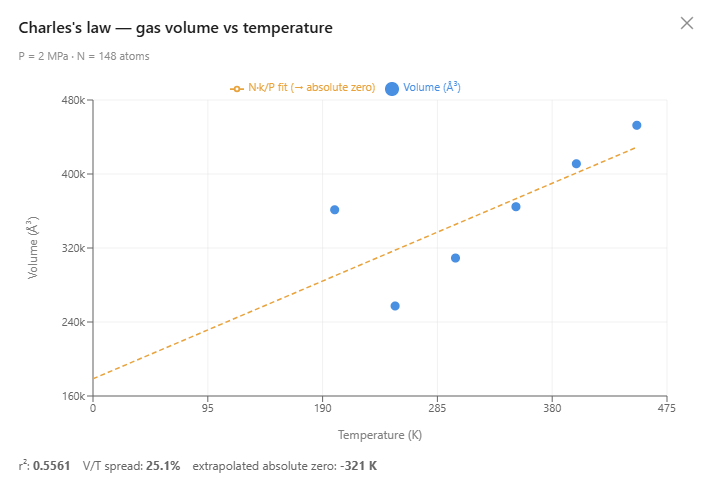
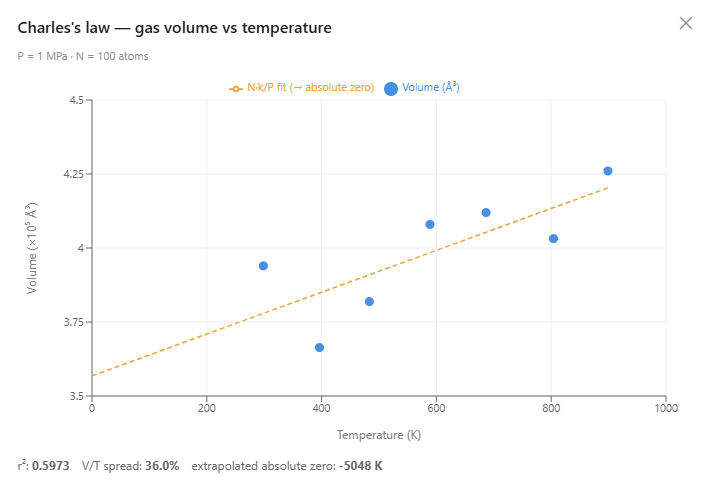
work

diff --git a/public/aims-gas-laws.html b/public/aims-gas-laws.html
@@ -51,13 +51,6 @@
         .v2-byline { font-size: 1.05rem; color: var(--text-muted); margin: 0 0 1.5rem; }
         .v2-byline a { color: var(--accent); }
         .v2-byline strong { color: var(--text); font-weight: 600; }
-        .v2-article-audio { display: flex; flex-direction: column; align-items: center; gap: 0.6rem; padding: 1.25rem; background: var(--surface-raised); border: 1px solid rgba(99, 102, 241, 0.18); border-radius: 0.75rem; margin: 0 0 2rem; }
-        .v2-article-audio-label { font-size: 0.85rem; font-weight: 600; text-transform: uppercase; letter-spacing: 0.1em; color: var(--accent); }
-        .v2-article-audio audio { width: min(100%, 420px); }
-        .v2-model-link { background: linear-gradient(135deg, rgba(99, 102, 241, 0.08), rgba(14, 165, 233, 0.06)); border: 1px solid rgba(99, 102, 241, 0.2); border-radius: 0.75rem; padding: 1rem 1.5rem; margin: 1rem 0 2rem; text-align: center; }
-        .v2-model-link a { display: inline-flex; align-items: center; gap: 0.5rem; font-family: var(--font-display); font-size: 1.05rem; font-weight: 600; color: var(--accent-dark); text-decoration: none; }
-        .v2-model-link a:hover { color: var(--accent); text-decoration: underline; }
-        .v2-model-link a::before { content: '\25B6'; font-size: 0.8rem; color: var(--accent); }
         .v2-screenshot-row { display: grid; grid-template-columns: 1fr 1fr; gap: 0.6rem; margin: 1rem 0 1.5rem; }
         .v2-screenshot-row img { width: 100%; height: auto; border-radius: 0.5rem; border: 1px solid rgba(15, 23, 42, 0.1); }
         .v2-prompts { background: linear-gradient(135deg, rgba(99, 102, 241, 0.07), rgba(14, 165, 233, 0.05)); border: 1px solid rgba(99, 102, 241, 0.2); border-radius: 0.75rem; padding: 1.35rem 1.6rem; margin: 1rem 0 2rem; }
@@ -81,7 +74,7 @@
                 <span class="v2-eyebrow">AIMS</span>
                 <h1>Discover the Gas Laws via AI-Assisted Simulations</h1>
                 <p class="v2-tagline">
-                    Boyle, Charles, Gay-Lussac, and Avogadro in one box of atoms, controlled by AI agents.
+                    Boyle, Charles, Gay-Lussac, and Avogadro in one box of molecules, controlled by AI agents.
                 </p>
             </div>
         </header>
@@ -96,32 +89,32 @@
                     exercise with a syringe and a hot-water bath. AIMS offers a different path: you <em>discover</em> these laws by talking to an
                     <a target="_blank" rel="noopener noreferrer" href="https://en.wikipedia.org/wiki/Intelligent_agent">AI agent</a> that builds and runs a real
                     <a target="_blank" rel="noopener noreferrer" href="https://en.wikipedia.org/wiki/Molecular_dynamics">molecular dynamics</a> simulation for you. You ask a question in plain English; the agent
-                    sizes a box of atoms, conducts the experiment, plots the measured data, and helps you make sense of it. Nothing about the laws is programmed in &mdash; they <em>emerge</em> from the motion and
-                    collisions of individual atoms. In the window below, a box of argon is capped by a movable piston. Press the play button and watch the atoms fly, collide with the walls, and hold the piston up
-                    against the load pressing down on it.</p>
+                    sizes a box of molecules, conducts the experiment, plots the measured data, and helps you make sense of it. Nothing about the laws is programmed in &mdash; they <em>emerge</em> from the motion and
+                    collisions of individual molecules. In the window below, a box of hydrogen molecules is capped by a movable piston. Press the play button and watch the molecules fly, collide with the walls, and hold
+                    the piston up against the load pressing down on it.</p>
 
                     <figure class="v2-embed">
-                        <iframe src="https://aims.intofuture.org/?viewonly=true&userid=HgVr8Ex4o9YsAjgku4RICvBldJK2&project=Gas%20Laws"
-                                id="aims-frame1" allowfullscreen="true" title="Gas Laws demo"></iframe>
+                        <iframe src="https://aims.intofuture.org/?viewonly=true&userid=HgVr8Ex4o9YsAjgku4RICvBldJK2&project=Gas%20Laws%20of%20Hydrogen%20Molecules"
+                                id="aims-frame1" allowfullscreen="true" title="Gas Laws of Hydrogen Molecules demo"></iframe>
                         <figcaption>
                             Live model &mdash; <a href="javascript:openFullscreen1();">view fullscreen</a>. Chrome or Edge recommended.
                         </figcaption>
                     </figure>
 
-                    <h2>A Piston Made of Molecular Collisions</h2>
+                    <h2>A Piston Driven by Molecular Collisions</h2>
 
                     <p>Every gas law is a statement about how three quantities &mdash; pressure, volume, and temperature &mdash; trade off for a fixed amount of gas. To study them we need a way to
                     <em>hold one quantity constant while varying another</em>. AIMS does this with a movable-piston
                     <a target="_blank" rel="noopener noreferrer" href="https://en.wikipedia.org/wiki/Barostat">barostat</a>: a weighted plate that seals the top of the container. A constant load pushes the plate
-                    down into the gas, while the gas atoms push it back up through countless tiny collisions. Where the two balance, the gas pressure equals the applied pressure &mdash; a real
+                    down into the gas, while the gas molecules push it back up through countless tiny collisions. Where the two balance, the gas pressure equals the applied pressure &mdash; a real
                     <a target="_blank" rel="noopener noreferrer" href="https://en.wikipedia.org/wiki/Isobaric_process">constant-pressure</a> ensemble, driven by
                     <a target="_blank" rel="noopener noreferrer" href="https://en.wikipedia.org/wiki/Kinetic_theory_of_gases">kinetic theory</a>, not by any hard-coded rule. A red arrow on the plate shows the
                     applied load and grows longer as the pressure is raised, so students can literally see "push harder" before the plate has finished responding.</p>
 
-                    <p>Because the pressure the gas exerts is computed from the momentum the atoms deliver to the walls, and the volume is read from the height at which the piston floats, the simulation gives
-                    students a microscopic picture of what pressure and volume actually <em>are</em>. A gas law that a textbook states in one line becomes something you can see happening, atom by atom. And you
-                    never have to configure any of this by hand: the AI agent knows how to size the container, place the gas, switch on the piston, set its load, and drive it &mdash; the whole apparatus is assembled
-                    from a sentence.</p>
+                    <p>Because the pressure the gas exerts is computed from the momentum the molecules deliver to the walls, and the volume is read from the height at which the piston floats, the simulation gives
+                    students a microscopic picture of what pressure and volume actually <em>are</em>. A gas law that a textbook states in one line becomes something you can see happening, molecule by molecule. And you
+                    never have to build any of this through menus and dials: you describe what you want in plain words, and the AI agent sizes the container, places the gas, switches on the piston, sets its load, and
+                    drives it &mdash; the whole apparatus is assembled from a sentence.</p>
 
                     <h2>Ask a Question, Run an Experiment</h2>
 
@@ -136,9 +129,9 @@
                         <p class="v2-prompts-group">Prepare the simulation</p>
                         <ol>
                             <li><span class="v2-prompts-step">Size the container</span> &mdash; <span class="v2-prompt">"Resize the simulation box to 80 &times; 80 &times; 120 &aring;ngstr&ouml;ms so the gas has room to expand and the piston can travel."</span></li>
-                            <li><span class="v2-prompts-step">Add the gas</span> &mdash; <span class="v2-prompt">"Add argon to the gallery, then scatter 50 argon atoms across the box."</span></li>
-                            <li><span class="v2-prompts-step">Set the conditions</span> &mdash; <span class="v2-prompt">"Hold the temperature at 300 K and use a 5 fs time step, since argon's interactions are weak."</span></li>
-                            <li><span class="v2-prompts-step">Switch on the piston</span> &mdash; <span class="v2-prompt">"Turn on the piston at 2 MPa with a light 40 amu plate so I can see it move."</span></li>
+                            <li><span class="v2-prompts-step">Add the gas</span> &mdash; <span class="v2-prompt">"Add hydrogen to the gallery, then scatter 50 hydrogen molecules across the box."</span></li>
+                            <li><span class="v2-prompts-step">Set the conditions</span> &mdash; <span class="v2-prompt">"Hold the temperature at 300 K and use a 1 fs time step, since the H&ndash;H bond vibrates quickly."</span></li>
+                            <li><span class="v2-prompts-step">Switch on the piston</span> &mdash; <span class="v2-prompt">"Turn on the piston at 2 MPa with a light 20 amu plate so I can see it move."</span></li>
                             <li><span class="v2-prompts-step">Run it</span> &mdash; <span class="v2-prompt">"Run the simulation for 500 femtoseconds so I can watch the gas hold the piston up, then stop."</span></li>
                         </ol>
 
@@ -164,41 +157,40 @@
                     ideal law, which is itself a teachable moment rather than an error.</p>
 
                     <p><b><a target="_blank" rel="noopener noreferrer" href="https://en.wikipedia.org/wiki/Charles%27s_law">Charles's law</a> (constant pressure).</b> With the piston holding the pressure fixed, the agent
-                    steps the temperature and measures the expanding volume. Volume rises in direct proportion to the absolute temperature, giving a straight line that, extended backward, crosses zero volume near
-                    &minus;273&nbsp;&deg;C &mdash; the simulation reproduces the classic extrapolation to
-                    <a target="_blank" rel="noopener noreferrer" href="https://en.wikipedia.org/wiki/Absolute_zero">absolute zero</a> directly from the measured data.</p>
+                    steps the temperature and measures the expanding volume. Volume rises in direct proportion to the absolute temperature, giving a straight line that, extended backward, heads toward zero volume near
+                    &minus;273&nbsp;&deg;C &mdash; the classic extrapolation toward
+                    <a target="_blank" rel="noopener noreferrer" href="https://en.wikipedia.org/wiki/Absolute_zero">absolute zero</a>, here traced out directly from the measured data.</p>
 
                     <p><b><a target="_blank" rel="noopener noreferrer" href="https://en.wikipedia.org/wiki/Gay-Lussac%27s_law">Gay-Lussac's law</a> (constant volume).</b> This one is mechanically different: the piston is
-                    switched off and the container becomes a rigid, sealed box. Now volume is the constant and <em>pressure</em> is the measured quantity &mdash; read from the force the atoms exert on the walls.
+                    switched off and the container becomes a rigid, sealed box. Now volume is the constant and <em>pressure</em> is the measured quantity &mdash; read from the force the molecules exert on the walls.
                     As the gas is heated, the pressure climbs in direct proportion to the absolute temperature. It is the same physics that makes a sealed can dangerous in a fire, and it too extrapolates to zero
                     pressure at absolute zero.</p>
 
                     <p><b><a target="_blank" rel="noopener noreferrer" href="https://en.wikipedia.org/wiki/Avogadro%27s_law">Avogadro's law</a> (constant temperature and pressure).</b> Here the agent changes the
-                    <em>amount</em> of gas &mdash; the number of atoms &mdash; while holding temperature and pressure fixed, and measures the volume. Volume grows in direct proportion to the number of particles:
+                    <em>amount</em> of gas &mdash; the number of molecules &mdash; while holding temperature and pressure fixed, and measures the volume. Volume grows in direct proportion to the number of molecules:
                     a straight line through the origin. This sweep also answers a subtler question that students often find confusing. Density is the mass divided by the volume, <em>&rho; = N&middot;m / V</em>.
-                    Because the volume grows in step with the number of atoms, the ratio <em>N / V</em> &mdash; and therefore the density &mdash; stays constant. Adding more gas at the same temperature and pressure
-                    makes the sample bigger but no denser, a fact that follows directly from the number of atoms and is easy to see once the V-versus-N line is on the screen.</p>
+                    Because the volume grows in step with the number of molecules, the ratio <em>N / V</em> &mdash; and therefore the density &mdash; stays constant. Adding more gas at the same temperature and pressure
+                    makes the sample bigger but no denser, a fact that follows directly from the number of molecules and is easy to see once the V-versus-N line is on the screen.</p>
 
                     <div class="v2-screenshot-row">
                         <img src="image/aims-gas-laws-boyle.png" alt="Boyle's law sweep: volume vs 1/pressure">
                         <img src="image/aims-gas-laws-charles.png" alt="Charles's law sweep: volume vs temperature extrapolating to absolute zero">
                     </div>
 
-                    <h2>From the Ideal Gas Law to Absolute Zero</h2>
+                    <h2>Why Molecules Matter</h2>
 
-                    <p>Taken together, the four laws are the pieces of a single equation: the
-                    <a target="_blank" rel="noopener noreferrer" href="https://en.wikipedia.org/wiki/Ideal_gas_law">ideal gas law</a>, <em>P&middot;V = N&middot;k&middot;T</em>. AIMS surfaces this relationship directly:
-                    while the piston is running, the simulation continuously reports the value of <em>P&middot;V / (N&middot;k&middot;T)</em>, which sits near 1 whenever the barostat has brought the gas to
-                    equilibrium and the gas is behaving ideally. Students can watch this dimensionless number settle toward unity as the piston finds its balance point, turning an abstract equation of state into a
-                    live readout they can test against their own conditions.</p>
+                    <p>The gas in these experiments does not have to be hydrogen, and the choice matters more than it first appears. In the ideal gas law, <em>P&middot;V = nRT</em>, the amount <em>n</em> is a count of
+                    <em>molecules</em> (as moles of them), not of atoms &mdash; each molecule, whatever its internal makeup, strikes the walls and claims its share of the volume as a single particle. A monatomic gas
+                    hides this distinction, because its atoms <em>are</em> its molecules; but for hydrogen the two differ by a factor of two, and for larger molecules by more. That is exactly why it matters that AIMS
+                    can build genuine molecules, not just lone atoms of an inert gas: the gas laws are laws about molecules, and a box of 50 hydrogen molecules behaves as 50 particles, not 100.</p>
 
-                    <p>Two of the sweeps &mdash; Charles's and Gay-Lussac's &mdash; independently extrapolate to the same special temperature at which an ideal gas would have zero volume and zero pressure.
-                    That temperature is absolute zero, and seeing it fall out of two different measured lines is a far more convincing encounter than being told the number. It is a small demonstration of how a
-                    quantity that can never be reached in the laboratory reveals itself through the geometry of the data.</p>
+                    <p>Hydrogen is only the starting point. AIMS can build almost any molecule on request, so a student can swap it for nitrogen, oxygen, carbon dioxide, methane, water vapor, or a noble gas like helium
+                    or argon with a single sentence, then rerun the same sweeps. Comparing the results turns the choice of gas into an experiment of its own: light, weakly interacting molecules track the ideal-gas laws
+                    closely, while heavier or more strongly interacting ones deviate sooner &mdash; a direct, measured look at where the ideal-gas picture holds and where it breaks down.</p>
 
                     <h2>Why AI-Assisted Simulation Matters</h2>
 
-                    <p>The value of doing this in a simulation is that nothing about the gas laws is assumed in advance. The atoms obey only the elementary rules of motion and collision; the pressure is tallied
+                    <p>The value of doing this in a simulation is that nothing about the gas laws is assumed in advance. The molecules obey only the elementary rules of motion and collision; the pressure is tallied
                     from momentum transfer, the volume from the piston height, the temperature from the average kinetic energy. When a straight line appears on the chart, it is the outcome of the microscopic
                     dynamics, not a curve drawn to match a formula. This lets students experience the gas laws as
                     <a target="_blank" rel="noopener noreferrer" href="https://en.wikipedia.org/wiki/Emergence">emergent</a> consequences of kinetic theory &mdash; and to probe the boundaries, such as the gentle
@@ -213,7 +205,7 @@
 
                     <p>This article uses the gas laws to illustrate a new way to learn science: not by reading about an experiment, and not by wrestling with simulation software, but by <em>conversing</em> with an
                     AI agent that turns a plain-English question into a real molecular-dynamics experiment and hands back measured data. The four historical laws &mdash; Boyle, Charles, Gay-Lussac, and Avogadro &mdash;
-                    and the ideal gas law that unifies them are not delivered as facts to be accepted but as patterns to be discovered, measured, and explained from the motion of atoms. By pairing a physically
+                    are not delivered as facts to be accepted but as patterns to be discovered, measured, and explained from the motion of molecules. By pairing a physically
                     grounded simulation with an AI that can set it up and run it, AIMS connects the microscopic and macroscopic pictures of matter and lowers the barrier between a student's curiosity and a genuine
                     scientific investigation.</p>
 
